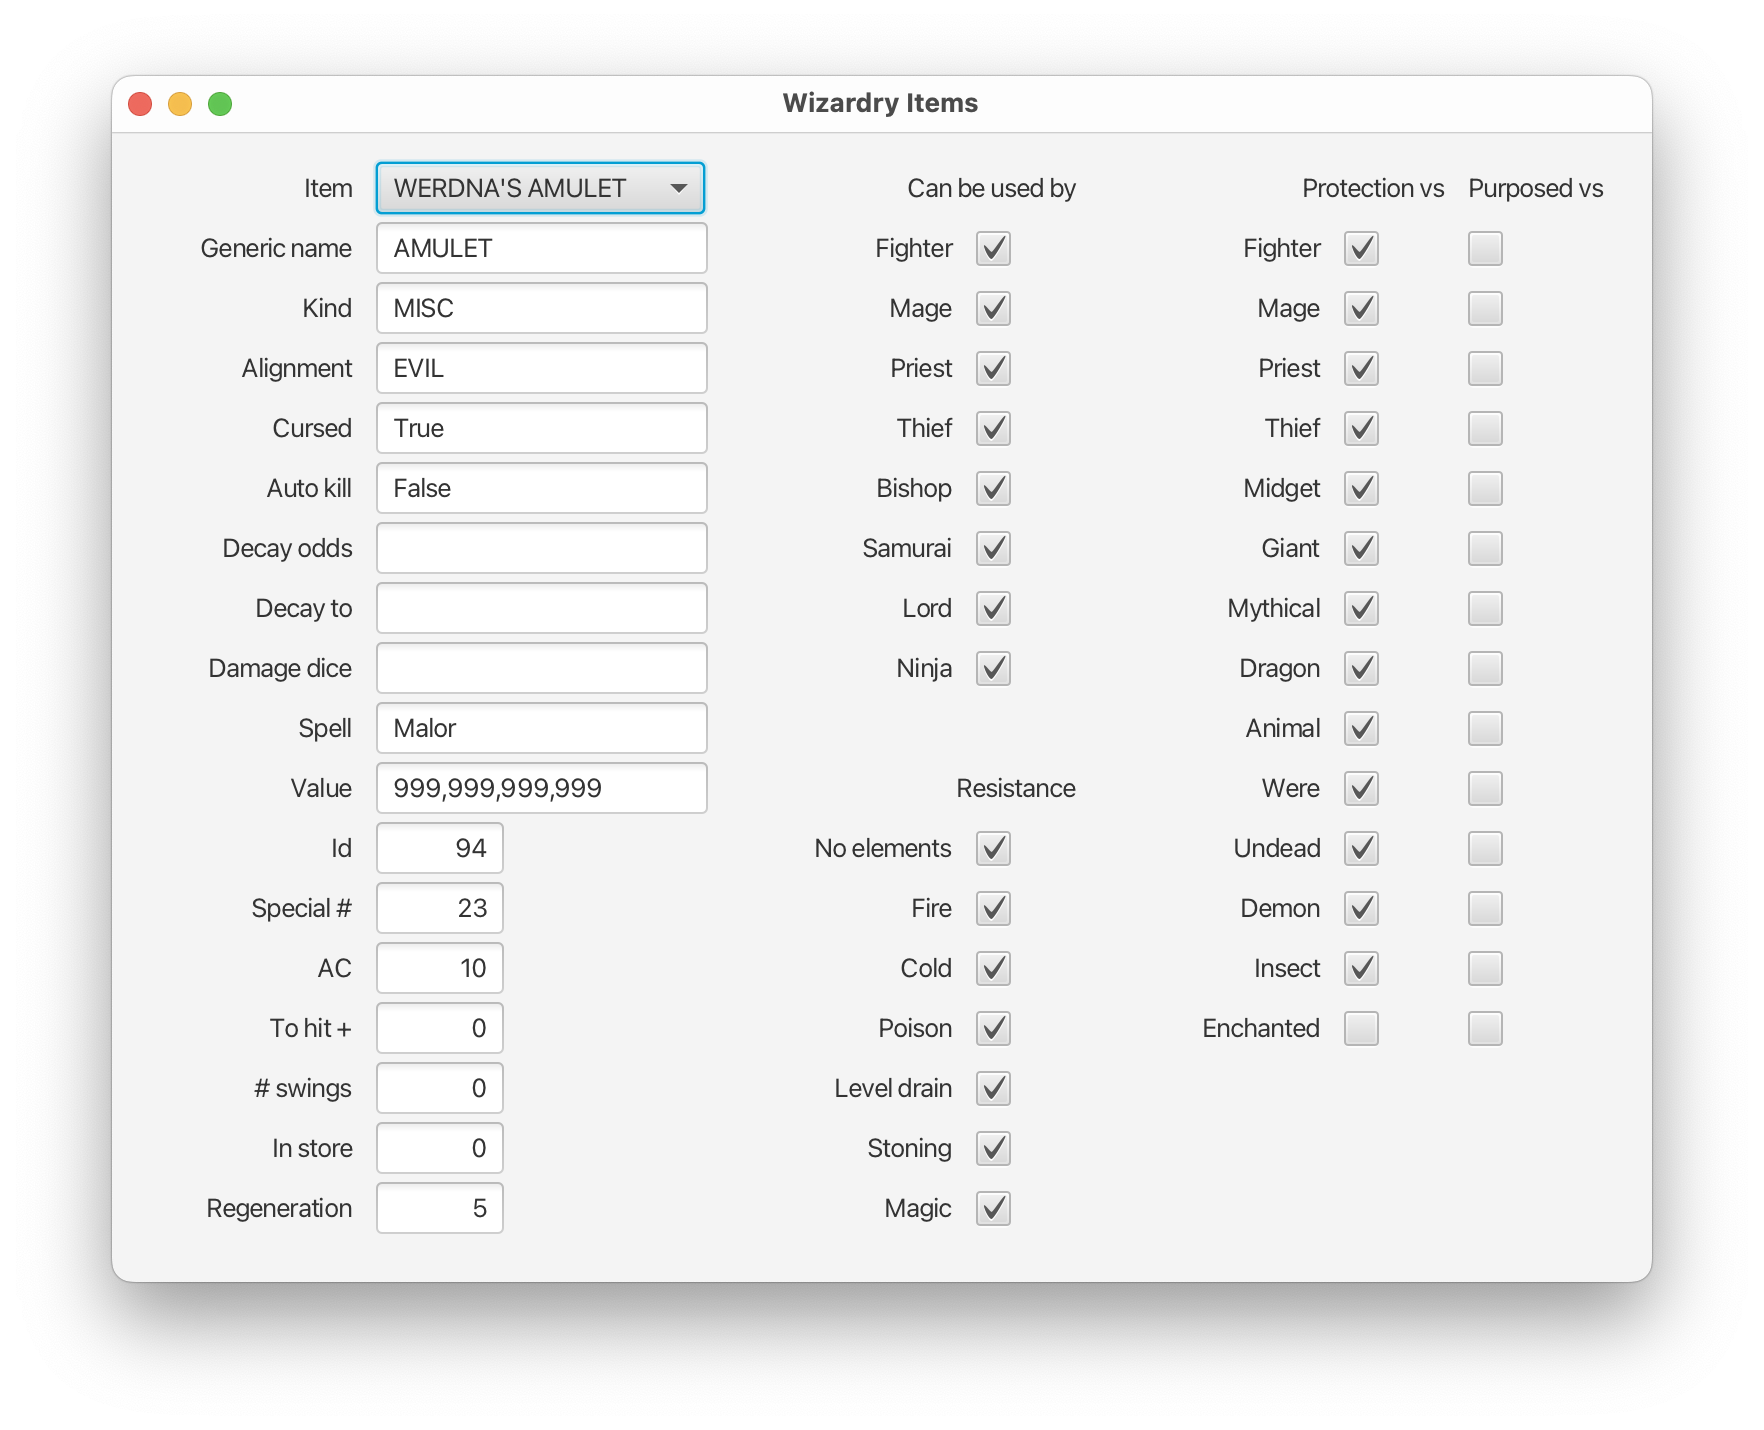
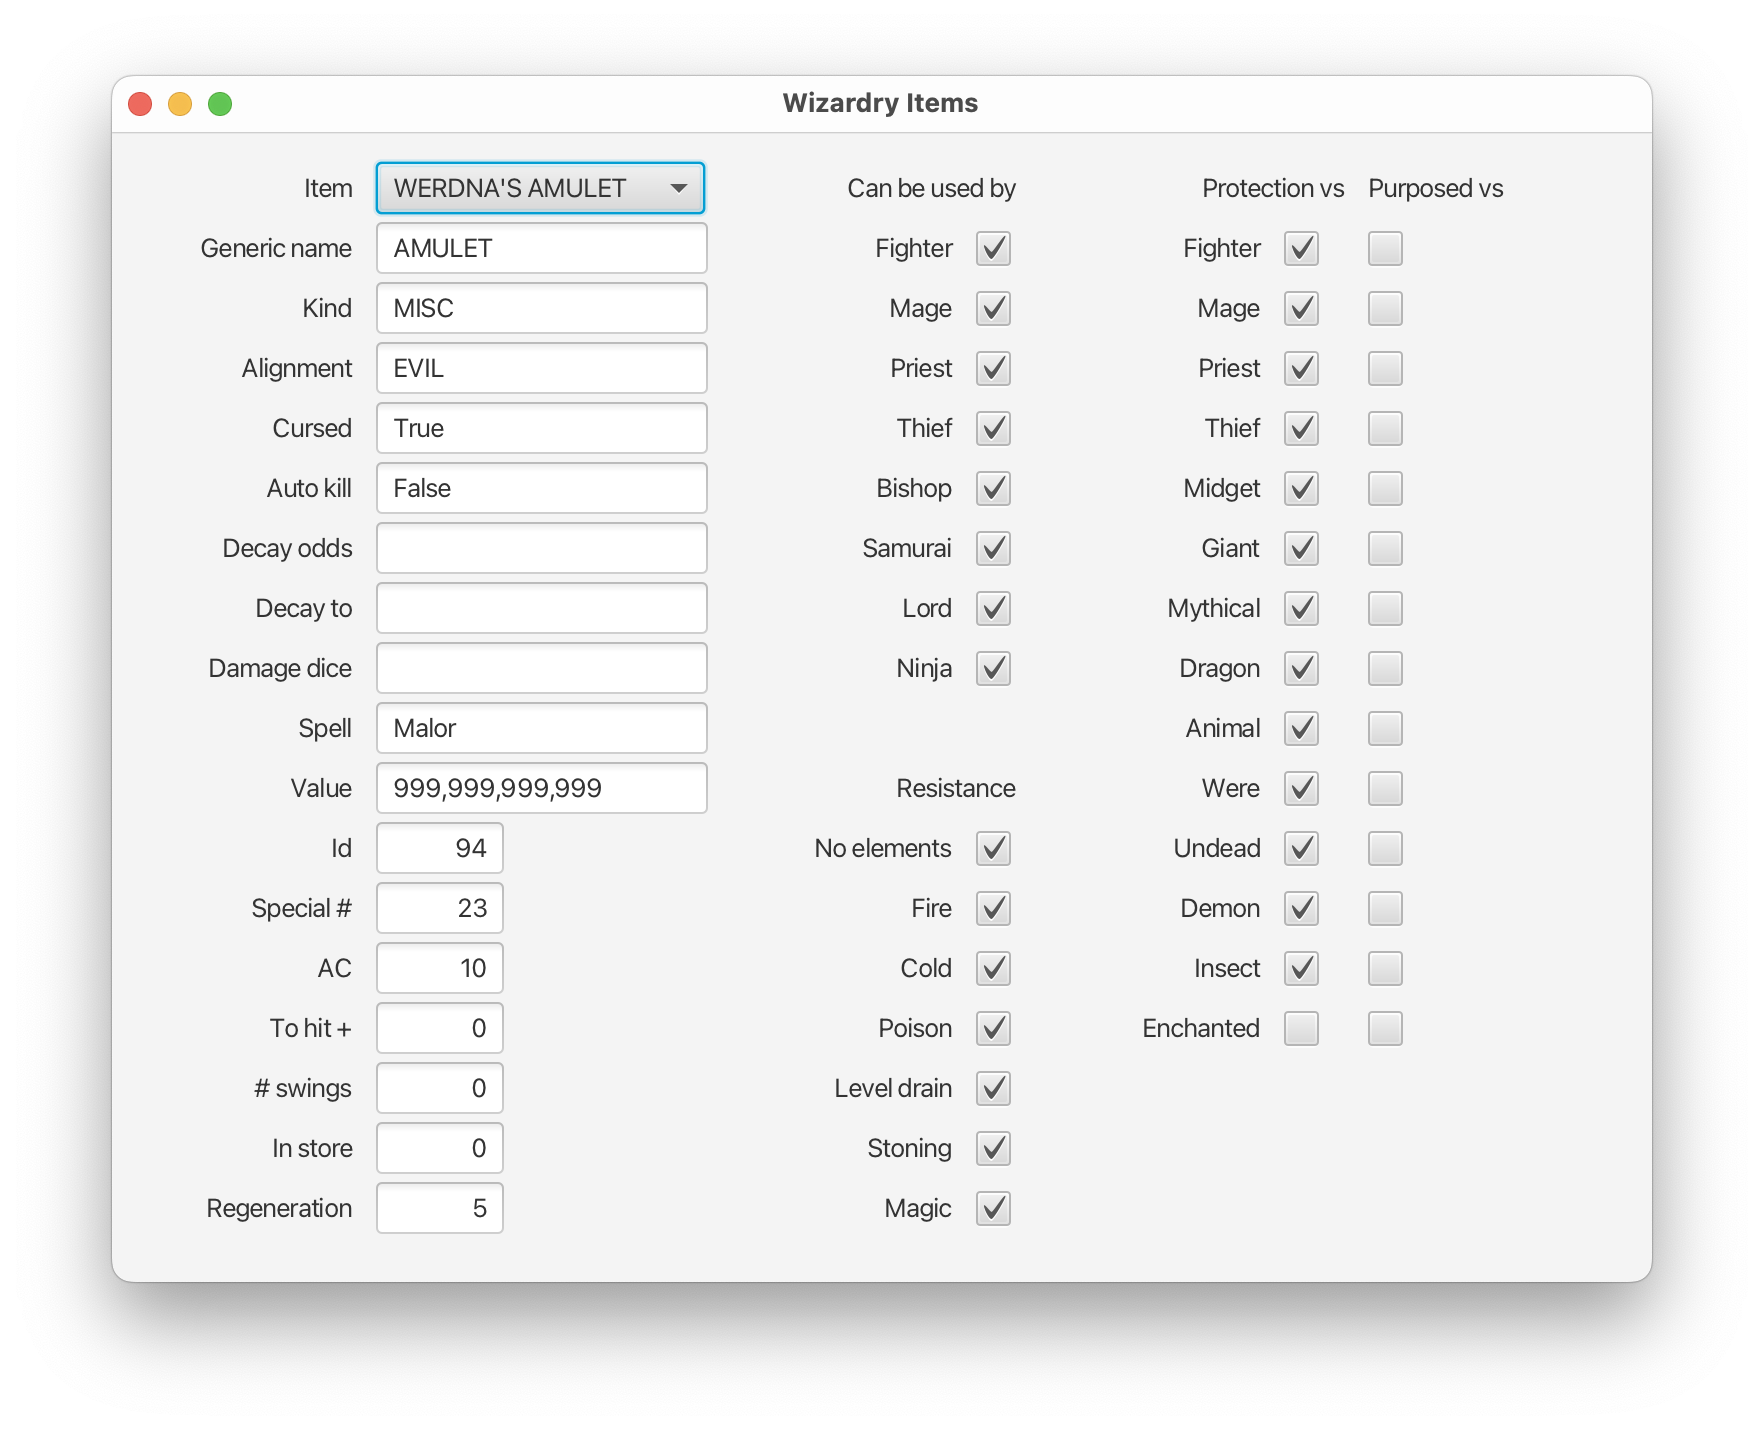
tidying

Changed region(s): [[0.6548, 0.1231, 0.9042, 0.7385], [0.4989, 0.1231, 0.5924, 0.1538], [0.53, 0.5231, 0.5924, 0.5538]]

diff --git a/src/com/bytezone/mazewalker/gui/CharactersPane.java b/src/com/bytezone/mazewalker/gui/CharactersPane.java
@@ -17,8 +17,8 @@ import javafx.scene.layout.RowConstraints;
 public class CharactersPane extends BasePane
 // -----------------------------------------------------------------------------------//
 {
-  private static final int NAME = 0;
-  private static final int PASSWORD = 1;
+  private static final int PASSWORD = 0;
+  private static final int AWARDS = 1;
   private static final int IN_MAZE = 2;
   private static final int RACE = 3;
   private static final int CLASS = 4;
@@ -75,8 +75,9 @@ public class CharactersPane extends BasePane
 
     GridPane.setColumnSpan (charactersList, 2);
 
-    String[] labelText1 = { "Name", "Password", "In maze", "Race", "Class", "Age (weeks)", "Status",
-        "Alignment", "Gold", "Experience", "Crit", "HP dam dice", "Mage", "Priest", "Bit 0" };
+    String[] labelText1 =
+        { "Password", "Awards", "In maze", "Race", "Class", "Age (weeks)", "Status", "Alignment",
+            "Gold", "Experience", "Crit", "HP dam dice", "Mage", "Priest", "Bit 0" };
 
     String[] labelText2 =
         { "Max lev AC", "Level", "HP left", "Max HP", "HP calc", "AC", "Regen", "Swing" };
@@ -148,7 +149,7 @@ public class CharactersPane extends BasePane
   private void update (Character character)
   // ---------------------------------------------------------------------------------//
   {
-    setText (textOut[NAME], character.name);
+    setText (textOut[AWARDS], character.awards);
     setText (textOut[PASSWORD], character.password);
     setText (textOut[IN_MAZE], character.inMaze);
     setText (textOut[RACE], character.race);

diff --git a/src/com/bytezone/wizardry/origin/Character.java b/src/com/bytezone/wizardry/origin/Character.java
@@ -13,6 +13,7 @@ public class Character
 // -----------------------------------------------------------------------------------//
 {
   private static int MAX_POSSESSIONS = 8;
+  private static char[] awardsText = ">!$#&*<?BCPKODG@".toCharArray ();
 
   public final String name;
   public final String password;
@@ -48,6 +49,8 @@ public class Character
   public final boolean crithitm;
   public final int swingCount;
   public final Dice hpdamrc;
+
+  public final String awards;
 
   boolean[][] wepvsty2 = new boolean[2][14];
   boolean[][] wepvsty3 = new boolean[2][7];
@@ -126,6 +129,25 @@ public class Character
     swingCount = Utility.getShort (buffer, offset + 182);
     hpdamrc = new Dice (buffer, offset + 184);
 
+    awards = getAwardString (buffer, offset);
+  }
+
+  // ---------------------------------------------------------------------------------//
+  private String getAwardString (byte[] buffer, int offset)
+  // ---------------------------------------------------------------------------------//
+  {
+    StringBuilder text = new StringBuilder ();
+
+    int awards = Utility.getShort (buffer, offset + 206);
+
+    for (int i = 0; i < 16; i++)
+    {
+      if ((awards & 0x01) != 0)
+        text.append (awardsText[i]);
+      awards >>>= 1;
+    }
+
+    return text.toString ();
   }
 
   // ---------------------------------------------------------------------------------//

diff --git a/src/com/bytezone/mazewalker/gui/ItemsPane.java b/src/com/bytezone/mazewalker/gui/ItemsPane.java
@@ -53,13 +53,12 @@ public class ItemsPane extends BasePane
   {
     super (wizardry);
 
-    setColumnConstraints (110, 64, 90, 110, 50, 110, 50, 50, 20);
+    setColumnConstraints (110, 64, 90, 110, 20, 110, 30, 100);
 
     LabelPlacement lp0 = new LabelPlacement (0, 0, HPos.RIGHT, 1);
     DataPlacement dp0 = new DataPlacement (1, 0, Pos.CENTER_LEFT, 2);
     setComboBox ("Item", itemsList, wizardry.getItems (),
         (options, oldValue, newValue) -> update (newValue), lp0, dp0);
-    //    GridPane.setColumnSpan (itemsList, 2);
 
     setLabel ("Can be used by", 3, 0, HPos.RIGHT, 2);
     setLabel ("Resistance", 3, 10, HPos.RIGHT, 2);
